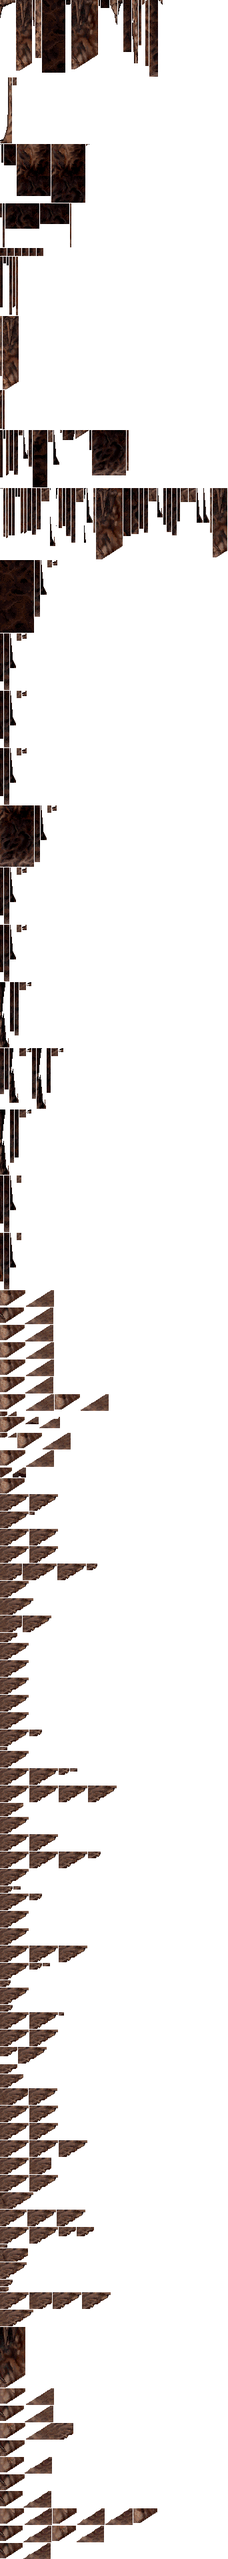
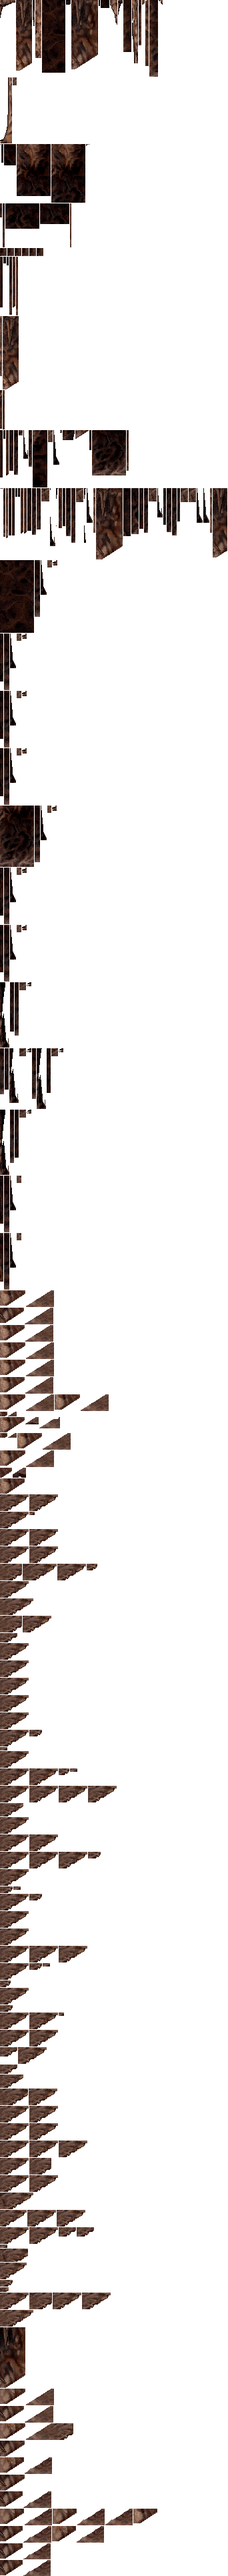
Blend approved floor joins in level 3 room 28

Changed region(s): [[0.0, 0.031, 1.0, 1.0], [0.3801, 0.5271, 0.4678, 0.5581]]

diff --git a/tests/test_cavern_retouch.py b/tests/test_cavern_retouch.py
@@ -56,7 +56,7 @@ class BundledCavernRetouchTests(unittest.TestCase):
 
     def test_bundled_variants_have_valid_scope_and_crop_sizes(self):
         assets = retouch_assets()
-        self.assertEqual(len(assets), 145)
+        self.assertEqual(len(assets), 147)
         self.assertEqual({key[0] for key in assets}, {0, 1, 2, 3, 4, 5, 6, 7, 8, 9, 10, 11, 12, 13, 14, 15, 16, 18, 20, 21, 23, 24, 25, 26, 27, 29, 30, 31})
         for key, (record, image) in assets.items():
             with self.subTest(key=key):

diff --git a/docs/CAVERN_ARTWORK.md b/docs/CAVERN_ARTWORK.md
@@ -433,3 +433,4 @@ the separate `rendered/level3-room30-joins-v1/` reference.
[4 lines of base64/hex data omitted]
